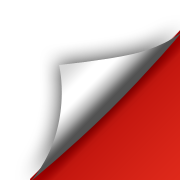
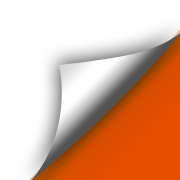
use the "Janet-approved" orange

diff --git a/store/styles/_variables/_SM.scss b/store/styles/_variables/_SM.scss
@@ -3,7 +3,7 @@
 $BRAND_CODE: "SM";
 $HEADLINE_FONT: "HelveticaNeue-CondensedBold";
 $MAIN_FONT: "Helvetica Neue";
-$ACCENT_COLOR: #db2817;
+$ACCENT_COLOR: rgb(232, 78, 0);
 $PROGRESS_BAR_COLOR: #0cc;
 
 $MYACCOUNT_STD_BTN_BG: -webkit-linear-gradient(top, #ff9500 53%,#ff8400 100%);
